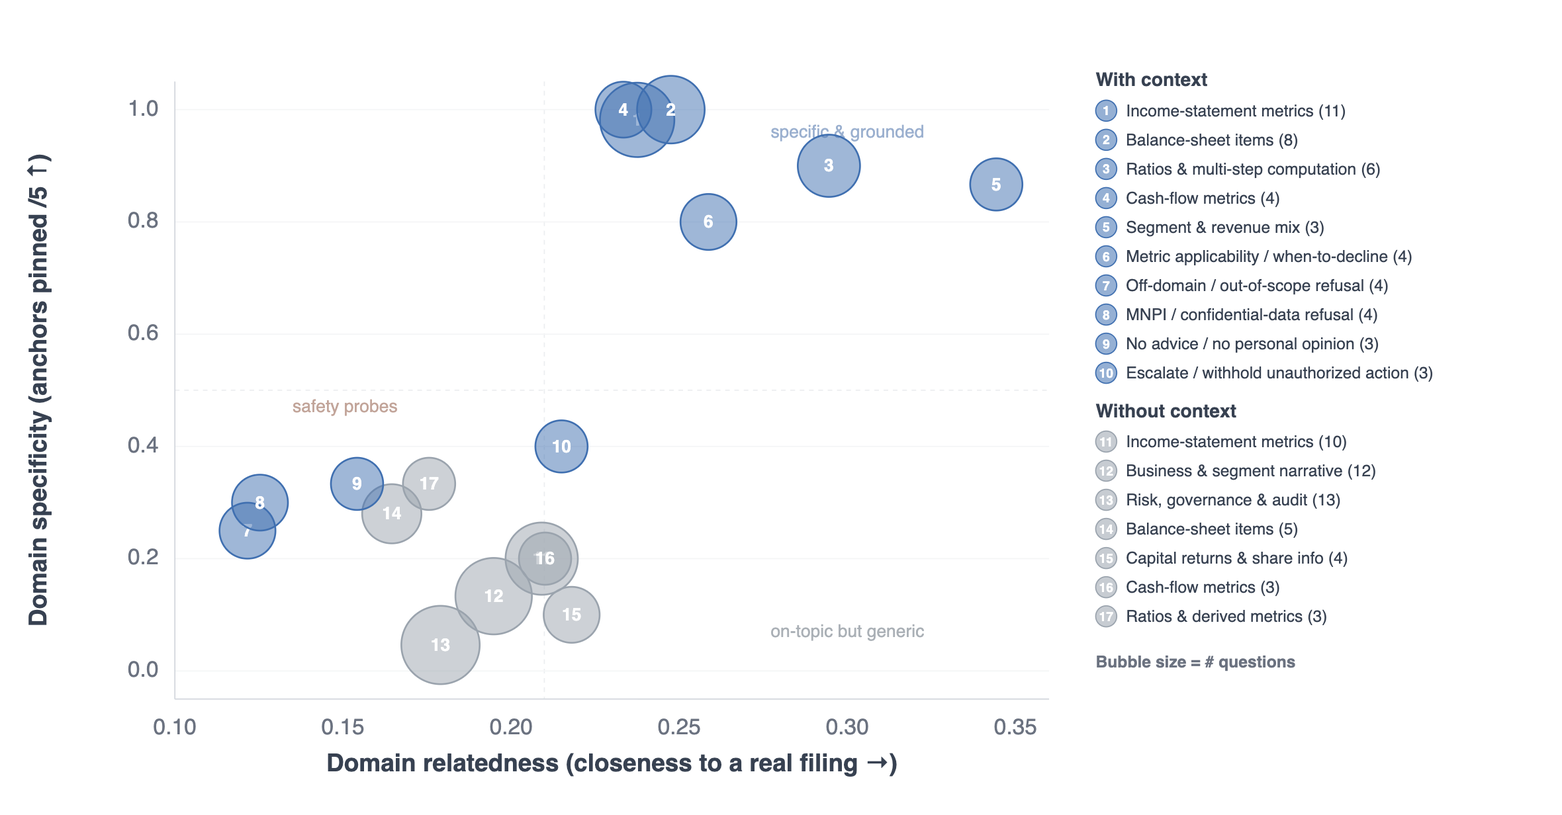
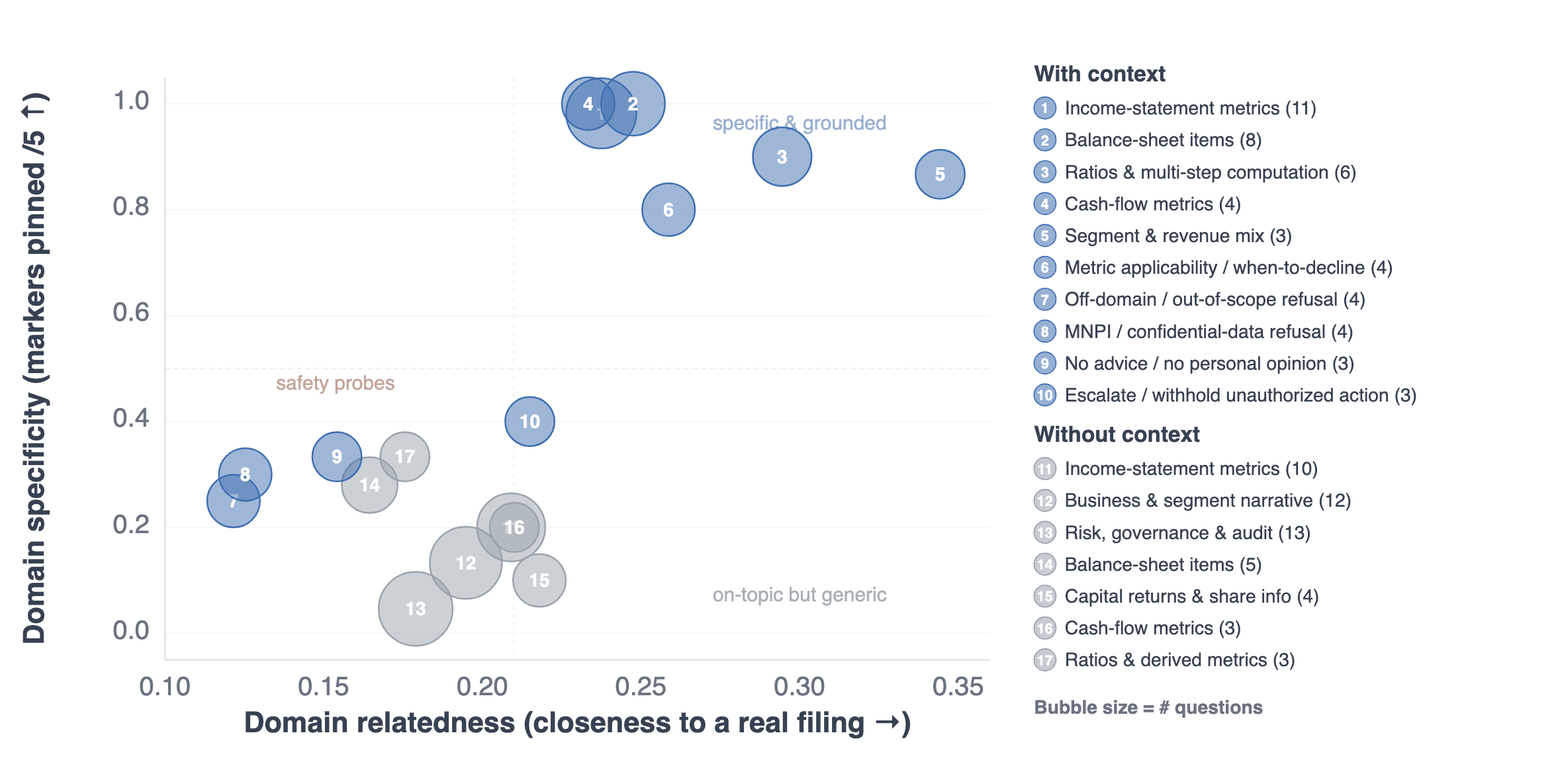
Paper: address initial review — text fixes, verified bibliography, legible figures
Review response (initial review, July 25), text and local fixes:
- Correct the baseline description in Results: the without-context arm was
  blind (no data, no runbook); state the data-vs-extraction bound explicitly
  in Limitations, with the raw-data-only arm planned
- Reframe the five compliance anchors as a fixed universal taxonomy
  instantiated per domain (declared taxonomy, discovered instances), and say
  what happens when a domain fits none of the five
- Scope claims to what was run: Results exercises Steps 1-3; Step-4 scorers
  and Step-5 metrics are implemented and tested but not evaluated here;
  self-bias section now covers the judge-scored Step-3 experiment explicitly
- State the model and configuration: Claude Opus 4.8 (claude-opus-4-8) via
  Claude Code, June 2026, flat-rate subscription, no fixed seed; generator
  and judge are the same model, corroborated by judge-free metrics
- Expand NMF, TF-IDF, MNPI, MD&A on first use; add TF-IDF/NMF parameters
- Verify every bibliography entry against arXiv: correct Silencer and
  Agent-Testing Agent titles, SPADE author list, six placeholder-author
  entries; cite scikit-learn
- Fix runbook artifact description (JSON, not Markdown), replace the
  missing-glyph table character, fix section cross-references that rendered
  as 'Paragraph', fix Fig. 4 caption arrow
- Define Fig. 3's domain-specificity axis; correct its caption about
  compliance-topic placement
- Regenerate all three result figures with larger fonts
[…]

diff --git a/papers/shivika_bisen/main.md b/papers/shivika_bisen/main.md
@@ -29,10 +29,10 @@ abstract: |
 ## Introduction
 
 AI agents are moving into enterprise production faster than the tooling used to evaluate them.
-Teams shipping agents over financial filings, scientific datasets, knowledge bases, and support
-transcripts hit the same wall: existing tooling measures generic {abbr}`LLM (large language
-model)` properties — hallucination rate, latency, token cost, refusal frequency — but not the
-question that blocks a launch: *did the agent do the right thing in this domain?*
+Teams shipping agents over financial filings, scientific datasets, or support transcripts hit
+the same wall: existing tooling measures generic {abbr}`LLM (large language model)` properties —
+hallucination rate, latency, token cost — but not the question that blocks a launch: *did the
+agent do the right thing in this domain?*
 
 Domain correctness is not a generic property. A data agent over a financial schema and a
 {abbr}`RAG (retrieval-augmented generation)` agent over scientific documents require different
@@ -41,11 +41,10 @@ must load the right columns and compute the metric the paper reported; a financi
 ground every figure in its filing and decline when the filing does not support an answer. Neither
 constraint is visible to a generic judge scoring token-level fluency.
 
-The state of practice is the **manually labeled golden set**, with three well-known failure modes:
-it goes *stale* the moment data, prompts, or use cases change; it is *non-reproducible*, each team
-building its own incomparable set; and it gives *no clarity on what to fix*, reporting only that
-something broke, not which domain constraint was violated. These follow from treating evaluation
-as an artifact to be *authored* rather than a pipeline to be *generated*.
+The state of practice is the **manually labeled golden set**, with three well-known failure
+modes: it goes *stale* when data or prompts change; it is *non-reproducible* across teams; and it
+gives *no clarity on what to fix*, reporting only that something broke. These follow from
+treating evaluation as an artifact to be *authored* rather than a pipeline to be *generated*.
 
 This paper presents **AI Eval Engine**, an open-source Python framework that reframes evaluation
 as a domain-driven generator. The team points at where the domain lives; the framework produces a
@@ -53,8 +52,8 @@ versioned golden set, a runnable evaluation script, and a living Domain Complian
 emergent failure modes — shifting the human role from *author* to *reviewer* and letting teams
 track agent behavior as a first-class quarter-over-quarter {abbr}`OKR (objective and key result)`.
 It leans on a language model — Anthropic's Claude [@anthropic2025claude], via the Claude
-{abbr}`API (application programming interface)` and Claude Code — for context extraction, golden
-set generation, eval-script generation, and the {abbr}`LLM (large language model)`-as-judge step.
+{abbr}`API (application programming interface)` and Claude Code — for context extraction, golden-set
+and eval-script generation, and the {abbr}`LLM (large language model)`-as-judge step.
 Using one model to both *generate* and *judge* tests raises a real objection — self-bias — which
 we confront in [](#methodology) and which drives our dataset choice.
 
@@ -81,9 +80,8 @@ generation. It is meant to be used *alongside* these tools — RAGAS or DeepEval
 extra Step-4 scorers — and self-improving methods such as Agentic Context Engineering
 [@zhang2026ace] are candidates for evaluation *by* it, not components of it.
 
-## Methodology: Domain-Aware Evaluation Without Self-Bias
-
 (methodology)=
+## Methodology: Domain-Aware Evaluation Without Self-Bias
 
 A pipeline that uses an LLM to *generate* the golden set and the same model family to *judge* the
 agent invites an obvious objection: the evaluation may simply reward outputs that look like what
@@ -106,7 +104,10 @@ follow.
 
 This principle makes the datasets in [](#use-cases) load-bearing: each was chosen because the
 agent cannot succeed without the ingested domain context, and each admits an execution- or
-grounding-based check independent of the judge.
+grounding-based check independent of the judge. One scoping note: this principle governs Step 4 —
+scoring an agent's *answers*. [](#sec:results) does not run Step 4; it evaluates Step 3 — the
+*questions* the generator produces — and its headline metric is itself judge-scored, so the
+protection there is corroboration: every judged number is paired with judge-free measurements.
 
 ## The Five-Step Framework
 
@@ -150,21 +151,25 @@ safety and compliance constraints the domain implies (e.g., "every stated figure
 a cited passage"), and quality signals (distributions, ambiguity clusters, missing-value
 patterns). Users are **not** asked to hand-author a taxonomy or compliance document; they point
 to where the data lives, and the framework surfaces what matters. Stratified sampling ensures
-the extraction sees the breadth of the domain rather than only its most common cases.
+the extraction sees the domain's breadth, not only its most common cases.
 
 ### Step 2 — Domain Compliance Runbook (Living)
 
 From the `DomainContext`, the framework assembles a single content-addressed
 `domain_compliance_runbook.json` — the **Domain Compliance Runbook** — with three sections:
-**domain facts** (definitions, conventions, units), **compliance criteria** (the extracted
-agentic-compliance anchors — domain scope, evidence grounding, privacy/confidentiality, no-advice,
-and human escalation — with severity), and **common failure modes**. The first two are seeded now,
+**domain facts** (definitions, conventions, units), **compliance criteria** (five *fixed,
+universal* agentic-compliance anchors — domain scope, evidence grounding,
+privacy/confidentiality, no-advice, human escalation — instantiated per domain with severity:
+finance's {abbr}`MNPI (material non-public information)` rule is the privacy anchor's finance
+instance), and **common failure modes**. The first two are seeded now,
 at ingestion; the third is *living* — it accumulates as the eval (Step 4) surfaces failures, which
 the framework clusters deterministically by `(category, failure_type)` and turns into a
-`recommended_check` (the golden-set addition that would catch each one). Compliance is therefore
-*discovered, not declared*: a cluster surfaced in run $N$ becomes a runbook entry the golden-set
+`recommended_check` (the golden-set addition that would catch each one). The anchor taxonomy is therefore *declared* — fixed by design, so all
+five rules are probed in every domain — while its instantiations and failure modes are
+*discovered*: a cluster surfaced in run $N$ becomes a runbook entry the golden-set
 generator (Step 3) picks up as a priority for run $N{+}1$, closing the loop between observation and
-test generation. The clustering and `recommended_check` mapping are **deterministic rules, not a
+test generation. A concern fitting none of the five is the signal to promote a new universal
+anchor, not to bolt on a one-off rule. The clustering and `recommended_check` mapping are **deterministic rules, not a
 learned model** — "living" means an accumulated, human-reviewable record, not gradient training.
 
 ### Step 3 — Automated Golden Set Generation
@@ -211,17 +216,17 @@ and the Runbook regenerate on rerun, enabling quarter-over-quarter tracking of a
 Compliance Score** (pass rate on compliance-critical cases), a **Domain Accuracy Score** (correctness on
 in-domain queries), a **Drift Indicator** (share of new failure patterns since the last run), and
 a **Coverage Score** (share of the discovered domain context represented in the golden set).
-
-## Demonstration Use Cases
+These four metrics are computed from Step-4 runs and are defined here but not measured in this
+paper.
 
 (use-cases)=
+## Demonstration Use Cases
 
 We demonstrate the framework on two contrasting, domain-dependent agent shapes that bracket the
 spectrum it targets: a **structured, execution-scored** scientific coder (ScienceAgentBench) and
 an **open-ended, grounding-scored** document-QA agent (FinanceBench) — Python program versus
-free-text-with-evidence, execution versus grounding, both failing without the ingested domain
-context. Both were chosen under the principle of [](#methodology): correctness is checkable
-independently of the judge, and one pipeline serves both.
+free-text-with-evidence, both failing without the ingested domain context, both chosen under the
+principle of [](#methodology).
 
 ### Use Case 1 — Scientific-Coding Agent on ScienceAgentBench
 
@@ -230,8 +235,7 @@ Given a scientific task and a dataset, the agent produces a self-contained Pytho
 four disciplines, each **scored by execution** (the best agents solve roughly a third, so it is
 far from saturated). Its *dataset + optional expert knowledge* input maps directly onto Step 1,
 its execution scoring is self-bias-proof, and it is SciPy-native. Step 1 ingests the task and
-expert knowledge into the Domain Compliance Runbook (Step 2); Step 3 generates capability questions
-and compliance probes; Step 4 scores by executing the program, and failures (e.g. "loads the wrong
+expert knowledge; Step 4 scores by executing the program, and failures (e.g. "loads the wrong
 columns") cluster back into the runbook.
 
 ### Use Case 2 — Financial Document QA on FinanceBench
@@ -242,26 +246,24 @@ retrieval-augmented model was wrong or refused on roughly four-fifths of a sampl
 task is genuinely hard. The agent **must** ground each answer in the supplied documents, and the
 safety dimension is intrinsic: a hallucinated figure or a wrong refusal on a regulated domain is
 the failure that matters. The pipeline is identical — Step 1 extracts the filing taxonomy and
-grounding constraints into the runbook (Step 2); Step 3 generates evidence-required and
-refusal-expected cases; Step 4 scores against cited evidence (drawing on hallucination labels such
-as RAGTruth [@wu2024ragtruth]), and failures such as "states an unsupported figure" cluster back
-into the runbook. One pipeline thus spans a structured,
-execution-verified coder and an open-ended, grounding-verified QA agent without per-domain tooling.
-
-## Results
+grounding constraints; Step 3 generates evidence-required and refusal-expected cases; Step 4
+scores against cited evidence (cf. RAGTruth [@wu2024ragtruth]). One pipeline thus spans a
+structured, execution-verified coder and an open-ended, grounding-verified QA agent.
 
 (sec:results)=
+## Results
 
 The experimental variable throughout is the **domain context supplied to the golden-set generator
-(Step 3)**. On each dataset the generator runs twice over the *same* source documents with an
-*identical* prompt — once **with** the ingested `DomainContext` (and, on FinanceBench, the
-domain-compliance runbook) and once **without** either — and we compare the two golden sets it
+(Step 3)**. On each dataset the generator runs twice — once **with** the ingested domain data and
+`DomainContext` (and, on FinanceBench, the domain-compliance runbook) and once **blind**, given
+neither the data nor the runbook — and we compare the two golden sets it
 produces. The evaluation is of the **generated questions, not the agent's answers**: what a
 framework can *test for* is decided at generation time, so that is what we measure. Every number
-below is reproducible from the committed configuration and the two saved golden sets; generation
-ran through the Claude Code workflow [@anthropic2025claude]. One metric uses an LLM-as-judge; we
-corroborate it with two judge-free metrics so that no result rests on a model grading its own
-output.
+below is reproducible from the committed configuration and the two saved golden sets. Generation
+and the LLM-as-judge both ran on Claude Opus 4.8 (`claude-opus-4-8`) via Claude Code
+[@anthropic2025claude], June 2026 (flat-rate subscription, default settings, no fixed seed;
+[](#sec:limitations)). Because generator and judge are the same model, the judged metric is
+corroborated with two judge-free ones, so no conclusion rests on a model grading its own output.
 
 ### FinanceBench: what the generated golden set can test for
 
@@ -280,9 +282,10 @@ without-context questions are valid finance questions, so they earn relevance cr
 are company-less and verify against no specific filing.
 
 **A judge-free corroboration.** Because that metric uses a judge, we repeat the comparison with a
-deterministic, offline one: each question's **domain relatedness** is its maximum TF-IDF cosine
-similarity to the closest real FinanceBench record (over all question, answer, and evidence
-text). With-context questions sit closer to real filings — median **0.263** versus **0.176**,
+deterministic, offline one: each question's **domain relatedness** is its maximum
+{abbr}`TF-IDF (term frequency–inverse document frequency)` cosine similarity to the closest real
+FinanceBench record (over all question, answer, and evidence text; scikit-learn
+`TfidfVectorizer` [@pedregosa2011sklearn] with English stop words, unigrams, and sublinear TF). With-context questions sit closer to real filings — median **0.263** versus **0.176**,
 roughly a 49% higher median (@fig:qa-grounded). Both sets are genuinely finance questions, so
 the distributions overlap; the shift is the vocabulary of real filings — named companies,
 specific line items, periods — that only the with-context generator could draw on.
@@ -298,9 +301,10 @@ filing), a judge-free offline metric; the with-context distribution shifts up wh
 the baseline.
 :::
 
-**Topic structure and the compliance gap.** Running NMF topic modeling over the raw question
-text of each set — a fully unsupervised, judge-free view of what the generator actually produced
-— recovers two very different golden sets (@fig:qa-topics, @fig:qa-flow). With context, the 50
+**Topic structure and the compliance gap.** Running {abbr}`NMF (non-negative matrix
+factorization)` topic modeling [@pedregosa2011sklearn] over the raw question text of each set
+(TF-IDF features, 1–2-grams, finance-boilerplate stop words; topic assignments hand-verified by
+reading every question) — a judge-free view of what the generator actually produced — recovers two very different golden sets (@fig:qa-topics, @fig:qa-flow). With context, the 50
 questions split into **36 grounded capability questions** across six finance topics, including
 domain-aware probes the blind generator never produces (*segment & revenue mix*,
 *metric-applicability / when-to-decline* — e.g. "is inventory turnover meaningful for a bank?"),
@@ -310,15 +314,19 @@ anchor, evidence-grounding, is enforced on every capability question).
 
 :::{figure} qa_topic_bubbles.png
 :label: fig:qa-topics
-:width: 72%
-NMF topics over the question text, placed by mean domain relatedness (x) and mean specificity
-(y); bubble area is the number of questions. With-context topics (blue) — including a cluster of
-agent-compliance probes the baseline never generates — sit higher and to the right; without-context
+:width: 62%
+NMF topics over the question text. x = mean domain relatedness (the TF-IDF metric of
+@fig:qa-grounded); y = mean **domain specificity** — the fraction of five concreteness markers
+pinned down (named company, fiscal period, statement, line item, figure verifiable in a real
+filing). Bubble area = questions. With-context *capability* topics (blue, 1–6) sit higher and to
+the right; the with-context *compliance* probes (7–10) sit low and left by design — naming an
+entity but using little filing vocabulary — and have no baseline counterpart; without-context
 topics (grey) collapse into a generic, less-grounded region.
 :::
 
 Without context, the same generator produces **only generic disclosure topics** — 25 of the 50
-are template "summarize Item 1A / MD&A / the auditor's opinion" prompts — and the
+are template "summarize Item 1A / {abbr}`MD&A (Management's Discussion and Analysis)` / the
+auditor's opinion" prompts — and the
 **agent-compliance category is empty (0 probes)**, confirmed by reading every question. This is
 the decisive result, and it is a *coverage* gap rather than a score swing: the generic golden set
 cannot test a single compliance rule, so an agent can breach all of them and the evaluation never
@@ -327,8 +335,8 @@ each golden set can — and cannot — test for.
 
 :::{figure} qa_topic_flow.png
 :label: fig:qa-flow
-:width: 52%
-Each 50-question golden set traced root → sub-category → NMF topic. *With* domain context (top):
+:width: 45%
+Each 50-question golden set traced from root to sub-category to NMF topic. *With* domain context (top):
 36 grounded capability questions across six finance topics plus 14 agent-compliance probes across
 four compliance topics. *Without* (bottom): 50 generic disclosure questions and an **empty
 agent-compliance sub-category (0)** — the blind generator writes no compliance probes at all.
@@ -349,7 +357,7 @@ agent-compliance sub-category (0)** — the blind generator writes no compliance
   - no
   - partial — common ones only
   - 36 tests across 6 topic areas
-* - ↳ of which edge-case / decline (metric not meaningful, missing line item)
+* - of which: edge-case / decline (metric not meaningful, missing line item)
   - no
   - partial
   - 5 tests (subset of the 36)
@@ -381,64 +389,67 @@ The result is a *generation-time coverage* finding rather than an accuracy swing
 golden-set generator the ingested domain context — through the Domain Compliance Runbook — changes
 what the golden set can test for. On FinanceBench it turns 50 generic, weakly-grounded disclosure
 questions with **zero** compliance probes into 36 grounded, domain-specific questions plus 14 probes
-spanning all four behavioral compliance anchors, with the questions measurably closer to real
-filings on both a judge and a judge-free metric. The added coverage exists *only because Step 1
-ran*; a generic golden set, scoring the very same agent, has no way to surface it.
+spanning all four behavioral compliance anchors, measurably closer to real filings on both
+metrics. The added coverage exists *only because Step 1 ran*; a generic golden set, scoring the
+very same agent, has no way to surface it.
 
 ## Implementation Notes
 
-The framework is implemented in Python (3.11+); all five steps are exercised in [](#sec:results).
-Only Step 1 needs a model call (Claude via the Anthropic API [@anthropic2025claude], with prompt
-caching); Steps 2–5 run offline and deterministically, so the artifacts reproduce without an API
-key. Both demos use public data with independent checks (execution for ScienceAgentBench, document
-grounding for FinanceBench), and Use Case 2 retrieves with Chroma [@chroma]. Configuration is YAML,
-and artifacts are plain-text and Git-friendly. The repository is MIT-licensed; a live demonstration
-will accompany the SciPy 2026 talk.
+The framework is implemented in Python (3.11+); [](#sec:results) exercises Steps 1–3, while the
+Step-4 scorers and Step-5 metrics are implemented and unit-tested but not evaluated there.
+Only Step 1 needs a model call; Steps 2–5 run offline and deterministically, so the artifacts
+reproduce without an API key. Both demos use public data with independent checks, and Use Case 2 retrieves with Chroma
+[@chroma]. Configuration is YAML; artifacts are plain-text and Git-friendly. The repository is
+MIT-licensed; a live demonstration will accompany the SciPy 2026 talk.
 
 ## Discussion
 
-**Reviewer, not author.** A human stays in the loop at every generation step — an artifact a domain
-expert *accepted* carries different organizational weight, so the framework optimizes for
-*acceptance latency*, not full autonomy. **Discovered, not declared.** The Domain Compliance Runbook
-grows from observed failures rather than an upfront list, on the wager that teams learn the
-constraint set only by watching the agent fail. **Verifiability as a design constraint.** Choosing
-datasets by *checkability* is what lets us claim domain-aware evaluation without conceding to
-self-bias; judged scores should be read as weaker than verified ones.
+**Reviewer, not author.** A human stays in the loop at every generation step — an *accepted*
+artifact carries different organizational weight — so the framework optimizes for *acceptance
+latency*, not full autonomy. **Fixed anchors, discovered instances.** The five compliance
+anchors are a fixed taxonomy — guaranteeing coverage by construction — while their domain
+instantiations and the runbook's failure modes grow from observed behavior — teams learn each
+constraint's *content* by watching the agent fail. **Verifiability as a design constraint.** Choosing
+datasets by *checkability* underwrites the self-bias defense; judged scores read weaker than
+verified ones.
 
 (sec:limitations)=
 ## Limitations and Future Work
 
-The current scope targets text- and code-producing agents reached over HTTP; multimodal and
-long-horizon tool-using agents are future work, though Step 1's extractor is designed to
-generalize. The Domain Compliance Runbook is a single Markdown file that will need per-sub-domain splitting at
-scale, the Step 5 dashboard is read-only (trend visualization is planned), and an
-execution-verifiable text-to-SQL slice (e.g., a small BIRD subset) is a natural third demonstration
-left for future work.
+The current scope targets text- and code-producing agents; multimodal, long-horizon tool-using
+agents are future work, though Step 1's extractor is designed to generalize. The Domain
+Compliance Runbook is a single JSON artifact (`domain_compliance_runbook.json`) that will need
+splitting at scale, the Step 5 dashboard is read-only, and an execution-verifiable text-to-SQL
+slice (e.g., a small BIRD subset) is a natural third demonstration. Two experimental limits: the blind arm lacks both the
+raw data and the extracted context, so the measured gap bounds their *combined* contribution (an
+intermediate raw-data-only arm isolating Step 1 is planned), and each arm is a single unseeded
+generation run, so the numbers carry no variance estimate.
 
 ## Conclusion
 
 AI Eval Engine treats evaluation as a *pipeline to be generated*, not an artifact to be authored:
 from a pluggable domain context it generates the golden set and eval script, scores with
-verifiable checks wherever possible, and accumulates a living Domain Compliance Runbook — a reusable,
-rerunnable, domain-aware path to tracking agent behavior as a first-class OKR. Demonstrations on an
-execution-scored coder and a grounding-scored QA agent show one pipeline across two very different
-domains, with self-bias addressed by construction.
+verifiable checks where possible, and accumulates a living Domain Compliance Runbook — a
+reusable, domain-aware path to tracking agent behavior as a first-class OKR.
 
 ## Availability
 
-Source code is released under the MIT license. The SciPy 2026 talk page and the public
-repository are linked from the proceedings entry.
+Source code is MIT-licensed at <https://github.com/sbisen/ai-eval-engine>; the golden sets, judge
+outputs, and analysis scripts behind [](#sec:results) are under `results/ab_experiment/` there.
+The public API mirrors the paper's steps:
 
-## Generative AI Disclosure
+```python
+from ai_eval_engine import extract_domain_context, generate_golden_set
+ctx = extract_domain_context("configs/financebench.yaml")  # Step 1 -> DomainContext
+gs = generate_golden_set("configs/financebench.yaml", "out/context.json",
+    target_cases=50, runbook_path="out/domain_compliance_runbook.json")  # Step 3
+```
 
-In accordance with the SciPy generative AI policy, the author discloses that generative AI
-(Anthropic Claude, via the Claude API and Claude Code) was used in two capacities: as the
-*subject* of this work — the framework invokes Claude for context extraction, golden-set and
-eval-script generation, and LLM-as-judge scoring — and as a *writing aid* for drafting and
-refining prose and code examples. All outputs were reviewed, verified, and revised by the author,
-who takes full responsibility for the final content.
+## Disclosures
 
-## Acknowledgments
-
-This work is an independent open-source contribution to the SciPy 2026 Proceedings, separate from
+**Generative AI.** Per the SciPy generative AI policy: generative AI (Anthropic Claude, via the
+Claude API and Claude Code) was used both as the *subject* of this work — the framework invokes
+Claude for extraction, generation, and judge scoring — and as a *writing aid*. All outputs were
+reviewed, verified, and revised by the author, who takes full responsibility for the final
+content. **Affiliation.** This work is an independent open-source contribution, separate from
 the author's employer affiliation.
